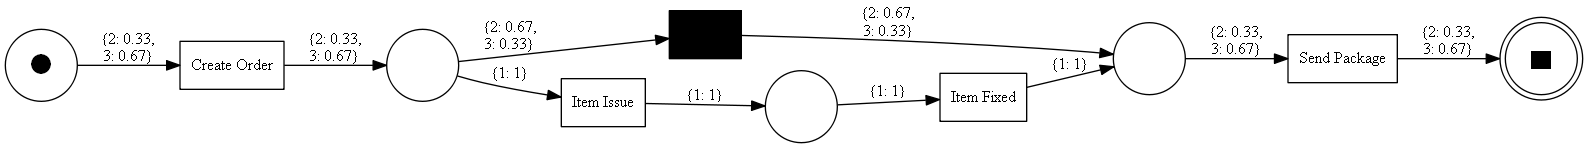
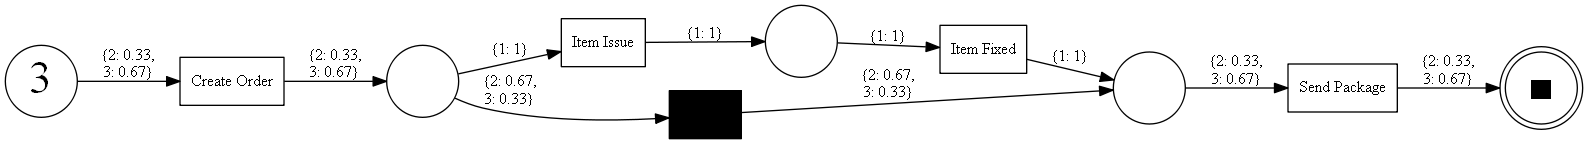
fixed unfolding

diff --git a/examples/manual_net_unfolded.py b/examples/manual_net_unfolded.py
@@ -132,8 +132,8 @@ sourcee = PetriNet.Place("source")
 targete = PetriNet.Place("targete")
 nete.places.add(sourcee)
 nete.places.add(targete)
-ime[sourcee] = 1
-fme[targete] = 1
+ime[sourcee] = 3
+fme[targete] = 3
 create_order_e = PetriNet.Transition(str(uuid4()), "Create Order")
 send_package_e = PetriNet.Transition(str(uuid4()), "Send Package")
 item_issue_e = PetriNet.Transition(str(uuid4()), "Item Issue")
@@ -203,3 +203,4 @@ list_folded["item"] = [nete, ime, fme]
 gviz = visualizer.apply(list_folded, parameters={"format": "png"})
 visualizer.gsave.save(gviz, "total.png")
 
+playout =
